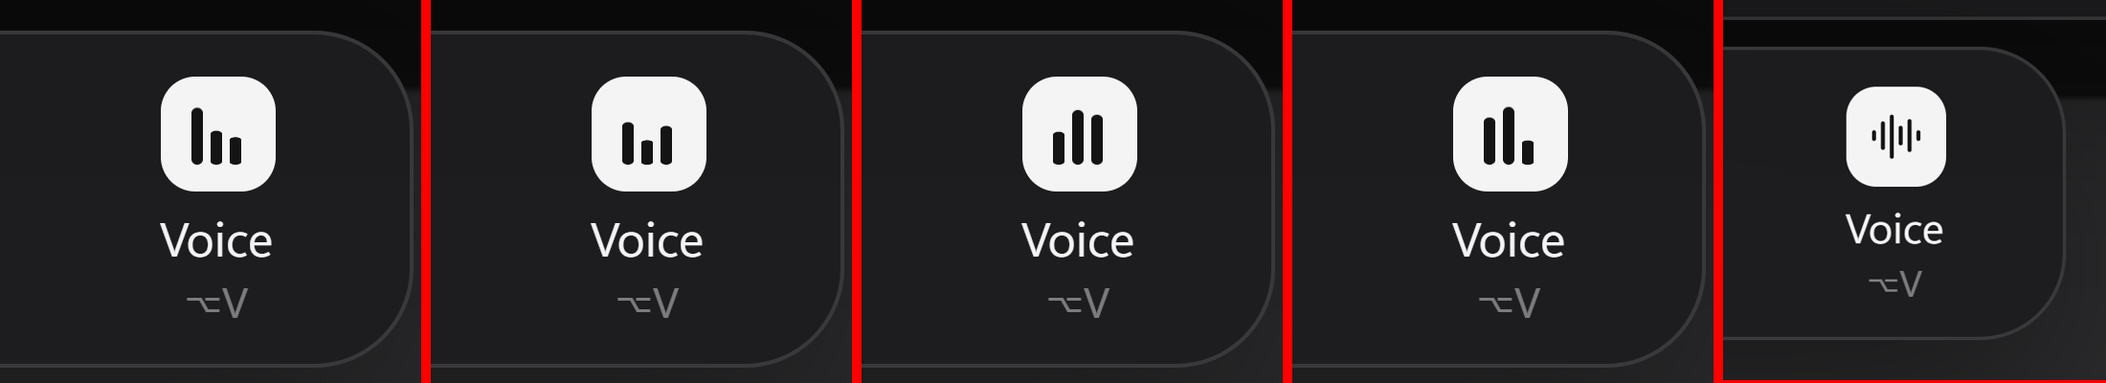
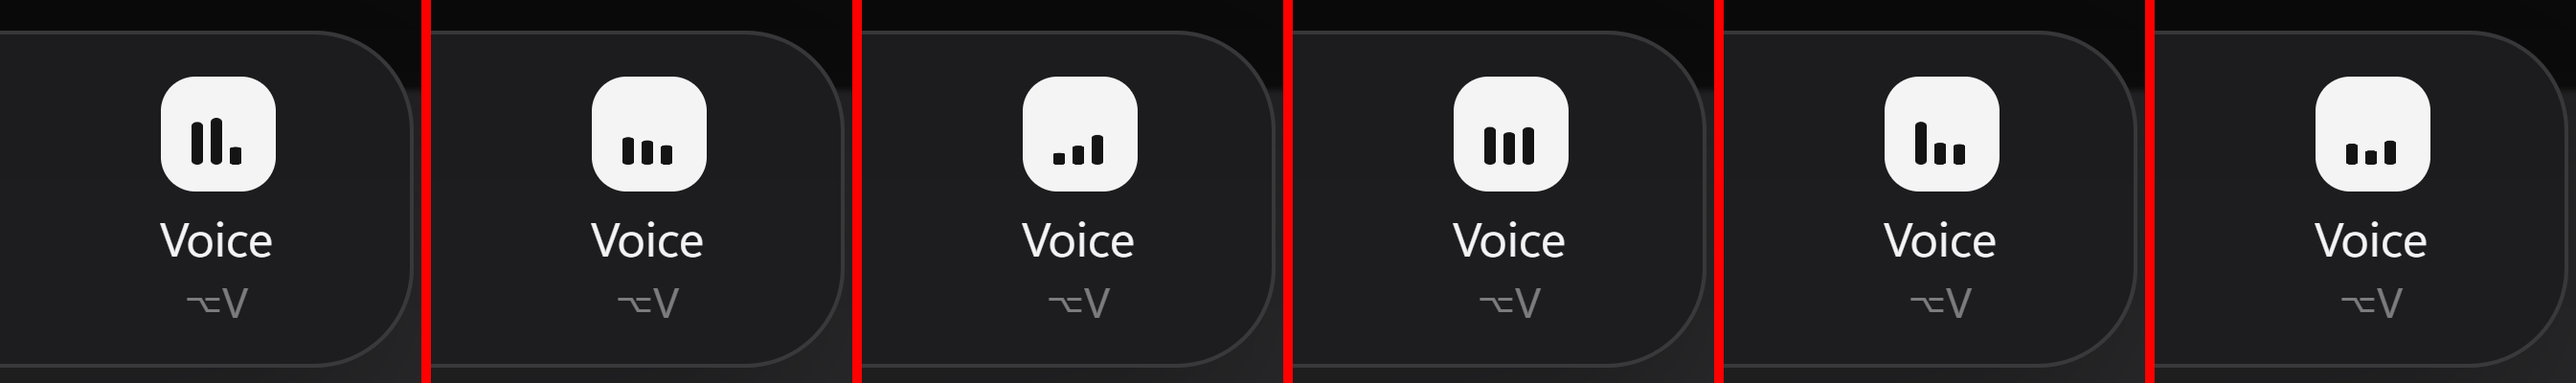
shortcut-bar: brief and shots for the Voice tile on the merged voice store

diff --git a/app/agents/shortcut-bar.md b/app/agents/shortcut-bar.md
@@ -1,6 +1,6 @@
 # shortcut-bar
 
-**Status:** pass 2 done: UI polish's pastel tiles merged (afdb33a) + spinner, press, voice, diagram state, re-checked in the stage · **Priority:** P1 · **Port:** 5179 · **Branch:** `adrian/shortcut-bar`
+**Status:** pass 2 done: UI polish (afdb33a) and voice (72980d4) merged; spinner, press, Voice tile on the real voice store, diagram state, all checked in the stage · **Priority:** P1 · **Port:** 5179 · **Branch:** `adrian/shortcut-bar`
 
 ## Goal
 The bar at the bottom during a lesson: an Ask field (opens the launcher in ask mode) and Back · Explain · Diagram · Show me · Hint · Voice. It must never look dead: a pressed action shows a spinner until the engine answers (Michael's P0-2: "pressing them feels dead").
@@ -29,17 +29,17 @@ The bar at the bottom during a lesson: an Ask field (opens the launcher in ask m
 `npm run dev:web -- --port 5179` → `http://localhost:5179/?scenario=full`, Alt+E / Alt+D / Alt+S / Alt+H.
 
 ## Pass 2 (functional), Sat
-- **Never look dead** (`Busy.tsx`): `<Glyph kind tone>` swaps the tile's glyph for the core `Spinner` (same size, the glyph's color) while `useThinking() && usePressed().kind === kind`, with one guard: the thinking spell must start ≤ 6 s after the press (or already be running at the press). Show me / Back are answered by `video.seek`, which doesn't clear `usePressed`, so without it a later coach run would spin a stale tile. `role="status"` + `data-busy` on the spinner.
+- **Never look dead** (`Busy.tsx`): `<Glyph kind tone>` swaps the tile's glyph for the core `Spinner` (same size, the glyph's color) while `useThinking() && usePressed().kind === kind`, with one guard: the thinking spell must start ≤ 6 s after the press (or already be running at the press). Show me is answered by `video.seek`, which doesn't clear `usePressed`, so without it a later coach run would spin a stale tile (Back / Voice no longer set it: core 82d54fc). `role="status"` + `data-busy` on the spinner.
 - **Press** (`press.ts`): one module-level `onUi('shortcut')` listener (claimed or not) → the matching tile scales to 0.94 for 90 ms. Covers bar clicks, global keys (Overlay routes them through `triggerShortcut`), stage keys and the launcher's chips (same window in the stage). A second press restarts the timer.
-- **Voice** (`Equalizer.tsx`): `useVoiceTile()` reads `on` / `speaking` from `features/voice/store.ts` (both exist on `adrian/shell`). On = UI polish's white tile with an ink glyph + `aria-pressed`; speaking = three ink bars (scaleY from the bottom, transform only) in the glyph's place. `level` (0..1) is read defensively: the voice agent hasn't exported it yet; when it lands the bars follow it instead of looping. Reduced motion: still bars.
+- **Voice** (`Equalizer.tsx`, voice merged in 72980d4): `useVoiceTile()` reads `on` / `speaking`, the equalizer reads `level` from `features/voice/store.ts`; the tile's click goes through `toggleVoice()` (the ⌥V path, so the key notice and the engine both follow). On = UI polish's white tile with an ink glyph + `aria-pressed`; speaking = three ink bars, each looping on its own rhythm inside an envelope from `level` (floor 0.3, full at ~0.5), so loud speech fills the tile and a pause sinks it; `level` undefined = full envelope, plain loop. Transform only. Reduced motion: rest shape × envelope. Checked with the voice mock's hum (`?scenario=voice`): click → on → clip at ~0.3 s, level 0.15–0.45 drives the envelope; click while a clip plays → off, audio and equalizer stop at once. Core now never sets `usePressed` for Back / Voice (checked: no spin on a later thinking).
 - **Diagram** open state: `useDiagram(d => d.open)` (diagrams store on `adrian/shell`) → lit + `aria-pressed`. ⌥D while open is claimed by the diagrams store (closes it), and still dips the tile.
 - **Mock** (`mock/scenarios/shortcut-bar.json`, merged into `full`): Explain / Hint / Diagram / Show me at steps 4–6 send `status thinking`, then the existing answer after 1.2–2 s, then `status watching` (step 4) / `offtrack` (step 6). Spotlight's Hint at step 5 is untouched.
 - **Checked in the stage** (headless Chrome over CDP, `?scenario=full&engine=ws://127.0.0.1:9`): Alt+E / Alt+H / Alt+D spin only the pressed tile from `status thinking` until the answer; press dip samples 1 → 0.94 at ~90 ms → 1 at ~180 ms for both a key and a click; a Show me press 10 s old does not spin on a later thinking; a press while already thinking spins until idle; Diagram `aria-pressed` true while open, false after Esc; Voice on → lit, speaking → bars move. Not checked: Electron (cross-window, see Core request 1), real ElevenLabs audio driving `speaking`.
-- **Shots:** `agents/shots/shortcut-bar-{explain-thinking,hint-thinking,explain-answered,diagram-open,voice-on,voice-speaking}.png`.
+- **Shots:** `agents/shots/shortcut-bar-{explain-thinking,hint-thinking,explain-answered,diagram-open,voice-on,voice-speaking,voice-states}.png` (voice-states = off · on quiet · off again).
 - **Merged UI polish** (`origin/adrian/shell` efed46a + be157ff, merge afdb33a): their tiles, Ask field and tokens kept as is. Their inline `thinking && sent === kind` spinner and inline equalizer were replaced by `Glyph` / `Equalizer` (one implementation each), fed the tile's glyph color (`tile.color`: ink on pastel and on the white Voice-on tile, white on neutral) at the tile's 16px glyph size.
 
 ## Core requests
 1. **Cross-window press (Electron).** The launcher is its own window: its Explain / Hint chips call `triggerShortcut` there, so the overlay's bar gets neither the 90 ms dip nor `usePressed` (no spinner on the bar tile for a chip press). Route chips through main to the overlay's `'shortcut'` signal (the same path as global keys), or broadcast `usePressed`. Works in the browser stage (one window).
-2. **When a press is spent.** Clear `usePressed` when the thinking spell after it ends (`thinking` → anything else) and on `video.seek` (Show me / Back answers). Then the 6 s guard in `Busy.tsx` can go.
+2. **When a press is spent.** Back / Voice are done (82d54fc). Left: clear `usePressed` when the thinking spell after it ends (`thinking` → anything else) and on `video.seek` (Show me's answer). Then the 6 s guard in `Busy.tsx` can go.
 3. **Spinner track on light tiles.** `Spinner`'s track is fixed `fill.trackSoft` (white 14%), which disappears on the pastel and white tiles (the ink arc reads fine). A `track` prop (e.g. `fill.onAccentKey`, ink 10%) would let tiles pass an ink track.
 4. (Global shortcut registration is core: `src/main/index.ts`.)
